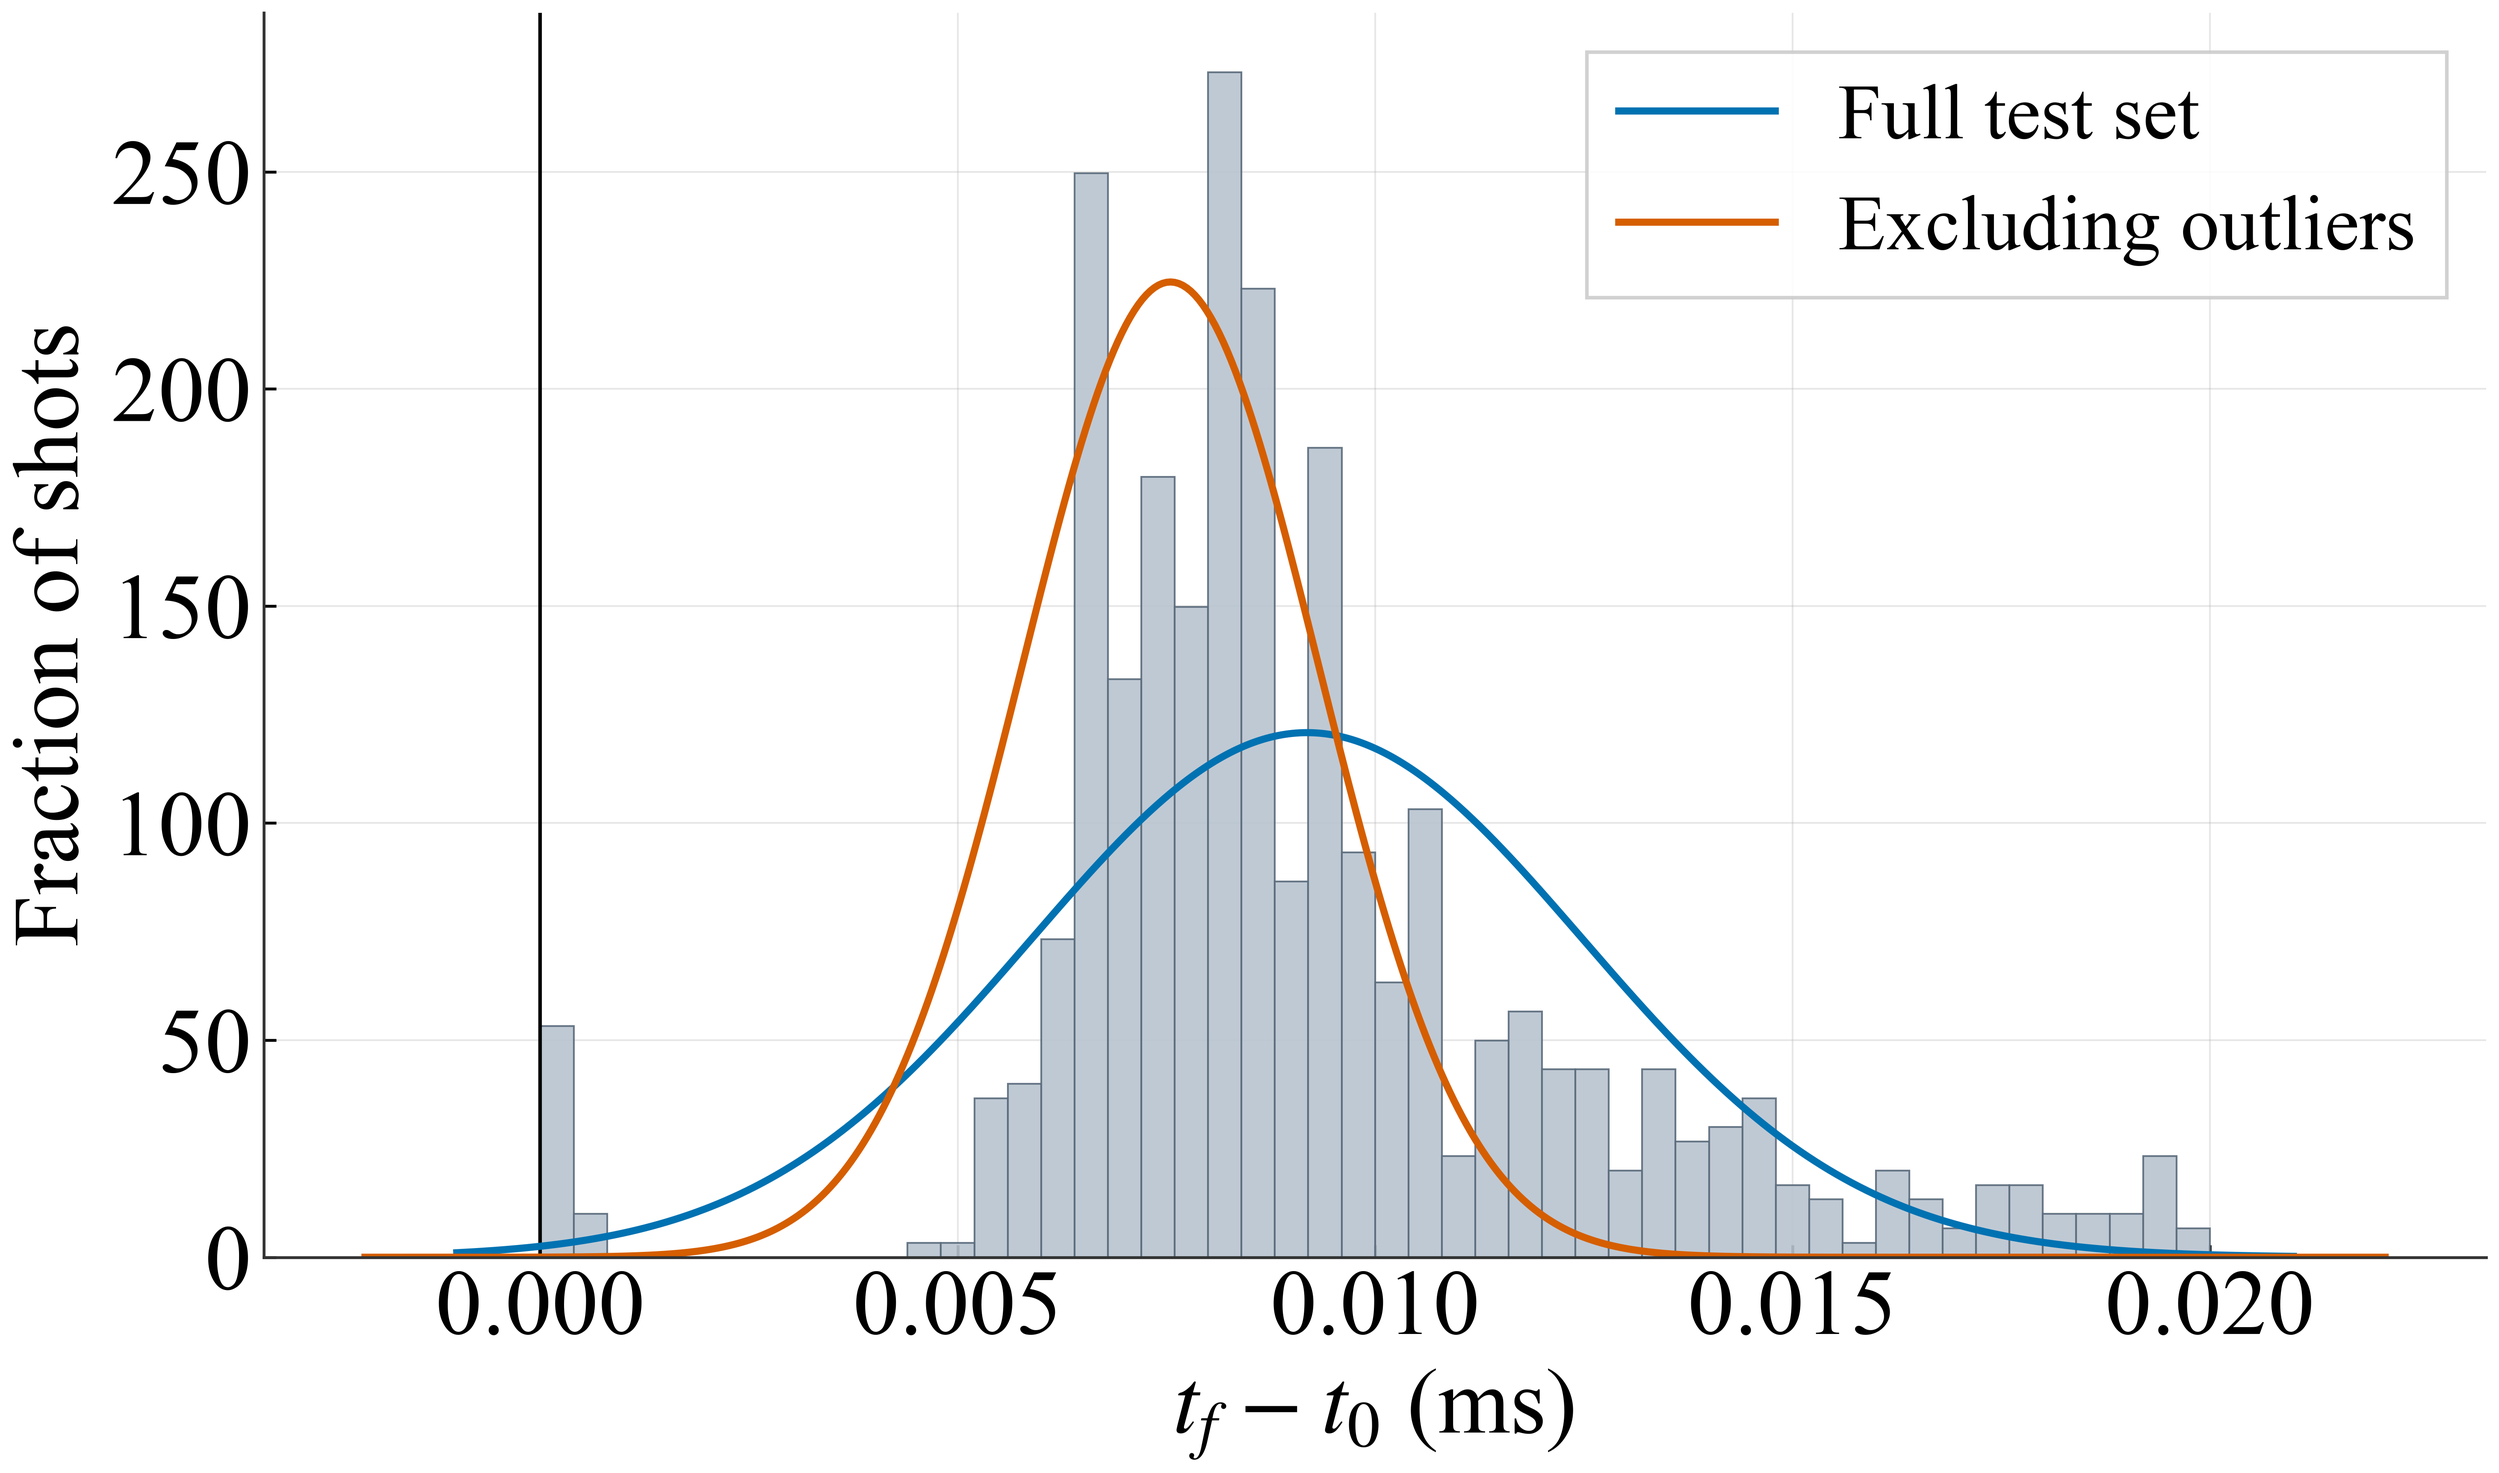
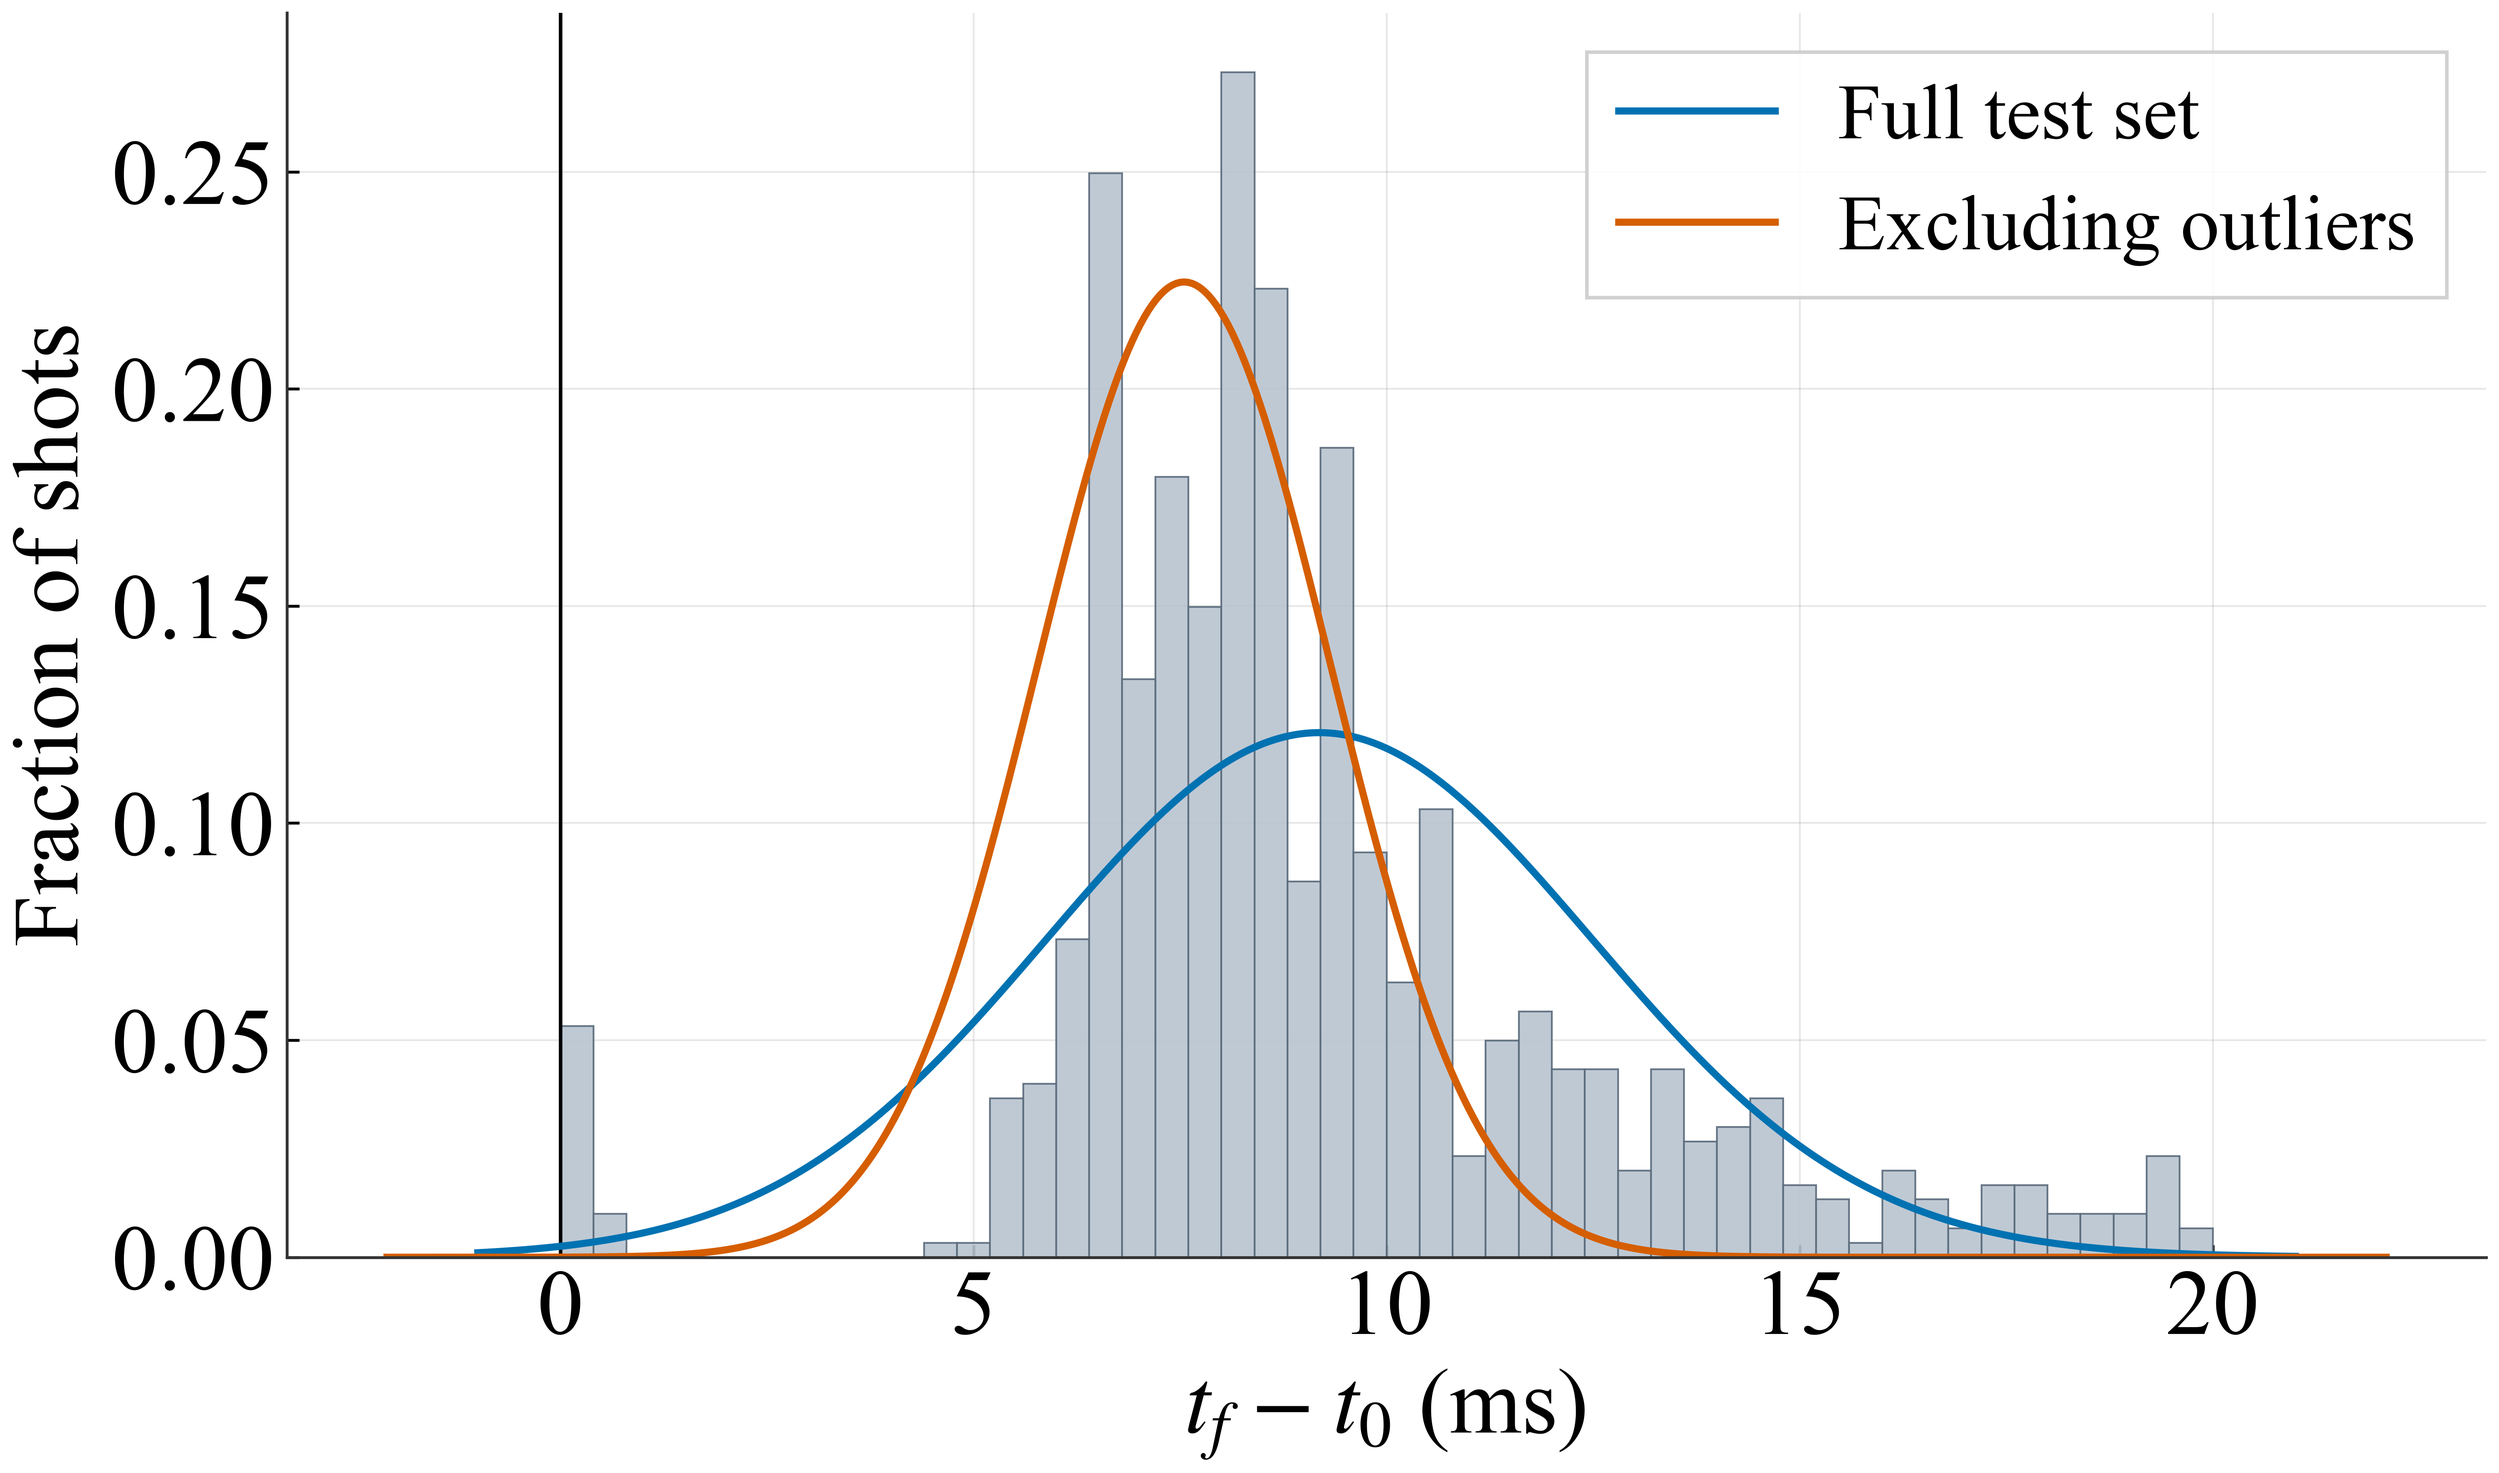
unit fix on range plot

diff --git a/src/prediction_plots.py b/src/prediction_plots.py
@@ -142,7 +142,7 @@ def generate_err_histogram(df: pd.DataFrame, prediction_type: str) -> None:
 def generate_range_histogram(df: pd.DataFrame) -> None:
     # Errors in seconds; keep those within +/-10 ms, then convert to milliseconds.
     df["range"] = df["t_f"] - df["t_0"]
-    disrupt_range = df["range"][(df["range"] > 0) & (df["range"] < 0.02)]
+    disrupt_range = 1e3 * df["range"][(df["range"] > 0) & (df["range"] < 0.02)]
     sigma = disrupt_range.std()
     mu = np.abs(disrupt_range.mean())
     logger.success(
@@ -165,7 +165,7 @@ def generate_range_histogram(df: pd.DataFrame) -> None:
         edgecolor="#5A6B7B",
         linewidth=0.5,
         alpha=0.9,
-        range=(0, 0.02),
+        range=(0, 20),
     )
     ax.axvline(0.0, color="black", linewidth=1)
     ax.set_xlabel(f"$t_f-t_0$ (ms)")
